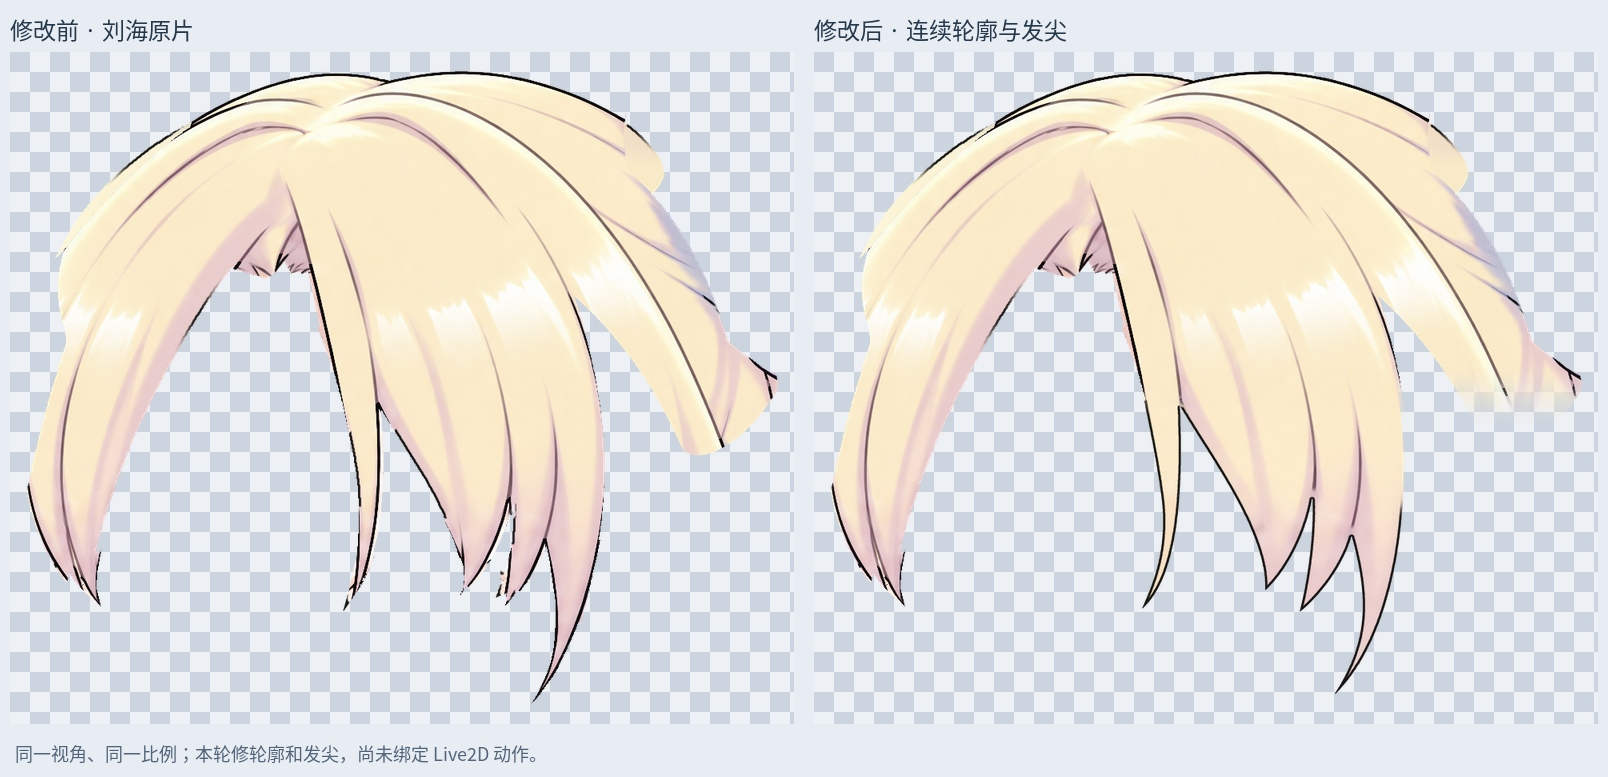
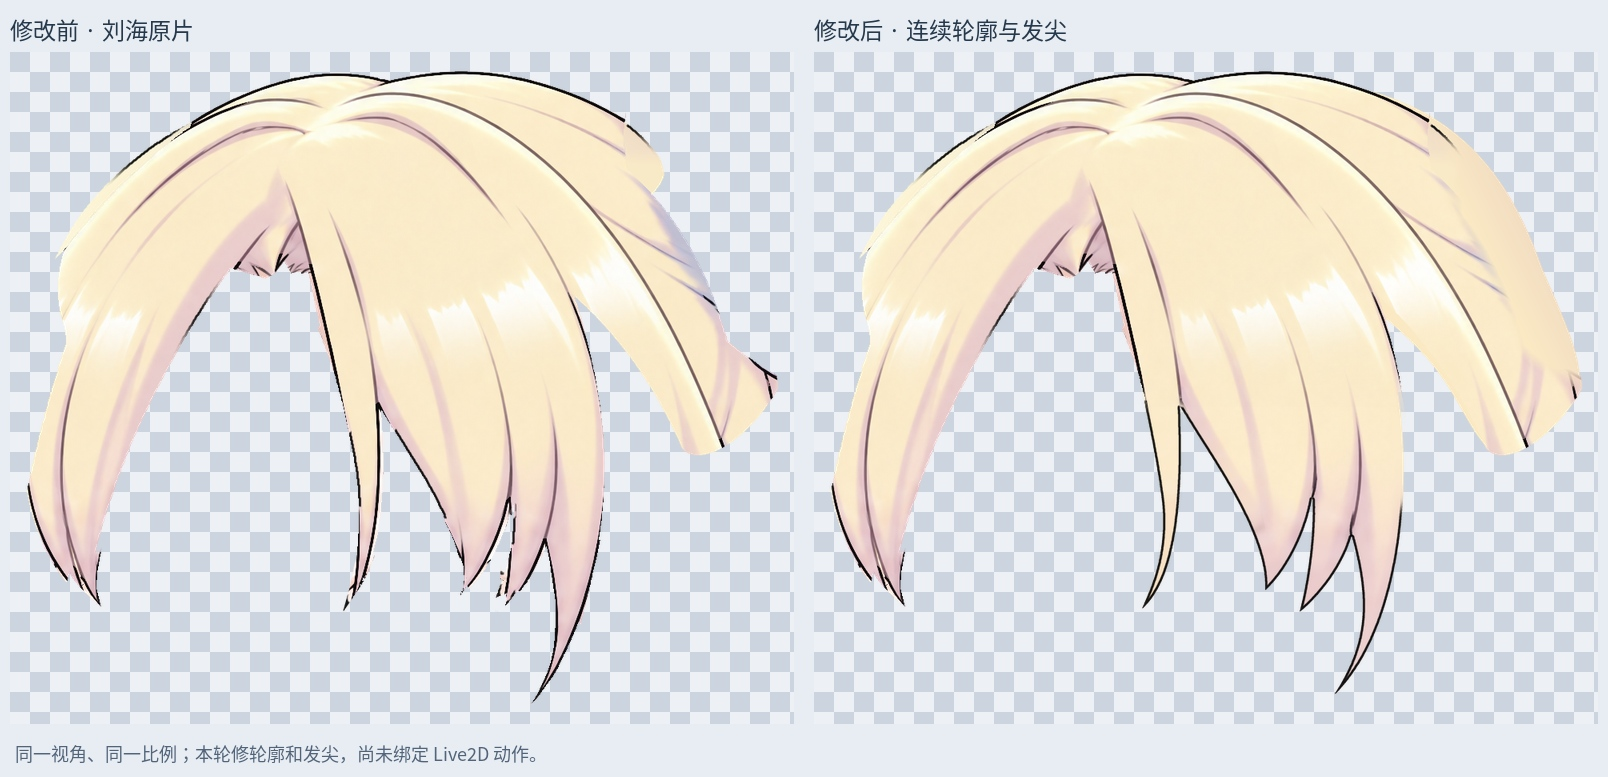
Reconnect fringe flow lines and complete concealed root beneath side locks

Changed region(s): [[0.8706, 0.1236, 0.995, 0.5869], [0.8396, 0.4015, 0.9017, 0.4942]]

diff --git a/live2d/production/repair_bangs_contours_v34.py b/live2d/production/repair_bangs_contours_v34.py
@@ -71,7 +71,7 @@ def prepare():
       'C 1244 422 1227 386 1212 354 L 1180 220 Z')
     shape=curve_mask(tip_path)
     # Blend the contour change into the unedited upper hair over 80px.
-    t=np.clip((y-470)/80,0,1);t=t*t*(3-2*t);t*=x>900
+    t=np.clip((y-470)/80,0,1);t=t*t*(3-2*t);t*=(x>900)&(x<1290)
     alpha=np.rint(orig[:,:,3]*(1-t)+shape*t).astype('uint8')
     # Repair the left hidden root notch, using actual underlying source hair.
     closed=cv2.morphologyEx(orig[:,:,3],cv2.MORPH_CLOSE,cv2.getStructuringElement(cv2.MORPH_ELLIPSE,(37,37)))
@@ -92,11 +92,39 @@ def prepare():
     recoat=np.maximum(np.clip((20-olddepth)/7,0,1),np.clip((16-newdepth)/6,0,1))*t*(alpha>0)
     a[:,:,:3]=np.rint(a[:,:,:3]*(1-recoat[:,:,None])+extended*recoat[:,:,None]).astype('uint8')
     a[:,:,3]=alpha;a[alpha==0]=0
+    # Continue the scalp root underneath the right flower along a curved
+    # silhouette. The old mask followed petal cut-outs and retained petal ink.
+    # This concealed extension is inferred hair paint, not recovered flowers.
+    rootshape=curve_mask('M 1230 130 C 1350 165 1405 250 1440 350 C 1470 420 1495 470 1485 510 C 1460 550 1410 585 1380 581 C 1355 565 1340 520 1310 480 C 1280 440 1250 420 1220 390 L 1220 130 Z')
+    rootweight=np.clip((x-1300)/40,0,1)*np.clip((y-170)/30,0,1)*np.clip((510-y)/35,0,1)
+    u=np.clip((x-(1200+.5*y))/180,0,1)
+    rootcolour=np.array([250,233,195])+u[:,:,None]*np.array([-20,-31,-2])
+    rootpaint=np.clip((24-olddepth)/14,0,1)*rootweight*(a[:,:,3]>0)
+    a[:,:,:3]=np.rint(a[:,:,:3]*(1-rootpaint[:,:,None])+rootcolour*rootpaint[:,:,None]).astype('uint8')
+    # Extra concealed root paint goes BEHIND the side locks, so it cannot
+    # cap their visible flow lines. Preserve the original front alpha here.
+    rootback=np.zeros_like(a);rootback[:,:,:3]=np.rint(rootcolour).astype('uint8');rootback[:,:,3]=rootshape;rootback[rootshape==0]=0
+    rootchanges=int(((rootshape>0)&(a[:,:,3]==0)).sum())
     line=np.array(ink_image(Image.fromarray(a),2.8,'Crown',(DX+BOX[0],BOX[1])))
+    # Reconnect the original mauve flow strokes to the new fork endpoints.
+    # Draw into the colour material; the outer editable black ink stays separate.
+    join=Image.new('RGBA',(SIZE[0]*4,SIZE[1]*4));jd=ImageDraw.Draw(join)
+    for points in [[(1157,606),(1158,618),(1155,628),(1153,636)],[(1205,653),(1203,667),(1199,675),(1202,686)]]:
+        p0,p1,p2,p3=np.array(points,float);prev=None
+        for u in np.linspace(0,1,100):
+            p=(1-u)**3*p0+3*(1-u)**2*u*p1+3*(1-u)*u*u*p2+u**3*p3
+            if prev is not None:
+                opacity=round(235*min(u*5,1));c=np.rint(np.array([111,83,99])*(1-u*.85)).astype(int)
+                jd.line(((prev[0]-BOX[0])*4,(prev[1]-BOX[1])*4,(p[0]-BOX[0])*4,(p[1]-BOX[1])*4),fill=(*c,opacity),width=round((3.6-u*.8)*4))
+            prev=p
+    j=np.array(join.resize(SIZE,Image.Resampling.LANCZOS));j[:,:,3]=np.minimum(j[:,:,3],a[:,:,3])
+    painted=np.array(Image.alpha_composite(Image.fromarray(a),Image.fromarray(j)))
+    a[:,:,:3]=painted[:,:,:3]
     changed={
       'Crown':put_crop(paste_full(old['Crown'].topil().convert('RGBA'),old['Crown'].offset),a),
       'Ink_Crown':put_crop(paste_full(old['Ink_Crown'].topil().convert('RGBA'),old['Ink_Crown'].offset),line),
     }
+    changed['Crown_ConcealedRoot_Underlap_LOCAL']=put_crop(Image.new('RGBA',(W,H)),rootback)
     # The previous face was cut to the old hair silhouette. Supply only the
     # narrow newly exposed skin margin underneath the revised fringe; eyes
     # remain above this patch, and original face/eye layers remain unchanged.
@@ -125,10 +153,10 @@ def prepare():
     for n,m in [('fringe-new-alpha',a[:,:,3]),('tip-contour-edit',np.rint(t*255).astype('uint8'))]:
         Image.fromarray(m).save(OUT/'masks'/(n+'.png'))
     before=Image.alpha_composite(paste_full(old['Crown'].topil().convert('RGBA'),old['Crown'].offset),paste_full(old['Ink_Crown'].topil().convert('RGBA'),old['Ink_Crown'].offset))
-    after=Image.alpha_composite(changed['Crown'],changed['Ink_Crown']);after.save(OUT/'qa/bangs-isolated.png')
+    after=Image.alpha_composite(changed['Crown_ConcealedRoot_Underlap_LOCAL'],Image.alpha_composite(changed['Crown'],changed['Ink_Crown']));after.save(OUT/'qa/bangs-isolated.png')
     panel([('修改前 · 刘海原片',before),('修改后 · 连续轮廓与发尖',after)],OUT/'qa/bangs-contour-comparison.jpg',(DX+530,80,DX+1510,920),.8)
     panel([('修改前 · 断口与碎线',before),('修改后 · 发尖连接',after)],OUT/'qa/bangs-tips-detail.jpg',(DX+920,510,DX+1290,900),1.5)
-    report={'source_sha256':sha(SOURCE),'donor_sha256':sha(DONOR),'tip_alpha_changed_pixels':int(((alpha!=orig[:,:,3])&(t>0)).sum()),'left_notch_recovered_pixels':int(added_notch.sum()),'upper_shared_root_ownership_unchanged':True,'repainted_contour_pixels':int((recoat>0).sum()),'changed_layers':list(changed),'method':'local smooth tip contour reconstruction; original upper-root ownership retained; boundary colour extension inferred from neighbouring hair','not_a_new_angle_or_rig':True}
+    report={'source_sha256':sha(SOURCE),'donor_sha256':sha(DONOR),'tip_alpha_changed_pixels':int(((alpha!=orig[:,:,3])&(t>0)).sum()),'left_notch_recovered_pixels':int(added_notch.sum()),'upper_shared_root_ownership_unchanged':True,'right_root_new_backing_pixels':rootchanges,'root_backing_behind_side_locks':True,'right_root_inferred_under_flower':True,'flow_line_joins_reconnected':2,'repainted_contour_pixels':int((recoat>0).sum()),'changed_layers':list(changed),'method':'smooth tip and hidden root contour reconstruction, two flow-line joins; root layer ownership retained; boundary colour extension inferred from neighbouring hair','not_a_new_angle_or_rig':True}
     (OUT/'edit-record.json').write_text(json.dumps(report,ensure_ascii=False,indent=2)+'\n')
     print(json.dumps(report,ensure_ascii=False,indent=2),flush=True)
 
@@ -141,6 +169,9 @@ def build():
             if item.is_group():
                 g=Group.new(item.name,parent=parent);g.visible=item.visible;g.opacity=item.opacity
                 if item.blend_mode is not None:g.blend_mode=item.blend_mode
+                if item.name=='01e_HeadHair':
+                    n='Crown_ConcealedRoot_Underlap_LOCAL';im=Image.open(files[n]).convert('RGBA');b=im.getbbox()
+                    g.append(PixelLayer.frompil(im.crop(b),psd_file=psd,layer_name=n,top=b[1],left=b[0]))
                 clone(item,g)
                 if item.name=='01d_Face_Ear':
                     n='Fringe_Edge_Skin_Underlap_LOCAL';im=Image.open(files[n]).convert('RGBA');b=im.getbbox()

diff --git a/live2d/BANGS_CONTOUR_REPAIR_V034.md b/live2d/BANGS_CONTOUR_REPAIR_V034.md
@@ -1,31 +1,33 @@
-# 刘海发尖轮廓修正
+# 刘海轮廓与发根修正
 
-上一版仅增加独立黑线，刘海颜色层和透明轮廓保持不变，因此发尖断口、锯齿和旧黑线残片仍然存在。本轮直接修正当前左视图刘海的中间 / 右侧发尖轮廓，并同步替换眼前刘海副本。
+上一版仅增加独立黑线，刘海颜色层和透明轮廓保持不变，因此发尖断口、锯齿和旧黑线残片仍然存在。本轮直接修正当前左视图刘海的中间 / 右侧发尖轮廓，并同步替换眼前刘海副本。随后继续接回两处内部发流线，补齐右花饰下的发根凹口。
 
-主文件：`Rurino_Bangs_Contour_Repaired_v034.psd`，3456 × 2816，54 个像素层。
+主文件：`Rurino_Bangs_Contour_Repaired_v034.psd`，3456 × 2816，55 个像素层。
 
 ## 已修改
 
 - 顺着现有发流重建不等长发尖的曲线，保持中间刘海连续，没有新增矩形切片。
 - 清理旧轮廓附近的黑线残片，局部颜色从相邻头发推断补齐，再生成独立 `Ink_Crown` 线层。
 - 对左上连接处的小缺口补回原画中的头发像素。
+- 接回两处内部阴影线与分叉尖端的连接，避免线条悬空。
+- 右侧发根按弧线补全花饰下的缺口，清除沿花瓣切口遗留的黑线。隐藏区域采用局部金色 / 粉色补画，原有可见发根保留在原图层；新增 `Crown_ConcealedRoot_Underlap_LOCAL` 放在侧发下面，补全区域不会压住侧发的可见线条。
 - 同步更新 `Left_Fringe_EyeOverlap_SOURCE`、`RightFringe_ForegroundTips_SOURCE` 及对应黑线；眼睛上方使用同一轮廓。
 - 新增 `Fringe_Edge_Skin_Underlap_LOCAL` 局部肤色补底。原脸部按旧发边裁切，改发尖后需要窄幅补底；该层在眼睛层下方，不覆盖眼睛，也不重新绘制脸型。
 
-6 个已有像素层修改，新增 1 个局部补底；其余 47 个图层的 RGBA、位置、混合、透明度、可见性与剪贴属性逐项保持一致，包含全部五官与独立眉毛。
+6 个已有像素层修改，新增 2 个局部补底；其余 47 个图层的 RGBA、位置、混合、透明度、可见性与剪贴属性逐项保持一致，包含全部五官与独立眉毛。
 
 ## 检查与边界
 
-- 保存回读的 7 个输出层与 PNG 一致，PSD 默认合成与预览一致。
+- 保存回读的 8 个输出层与 PNG 一致，PSD 默认合成与预览一致。
 - 刘海保持一个主要连通区域，无封闭针孔。
 - 检查睁眼、半闭眼、闭眼三种静态合成；修边没有新增透明露底缝隙。
 - 边缘颜色与肤色补底含局部推断，并非恢复不可见原画。原视频用于造型参考，本轮没有生成新角色图。
-- 本轮完成的是下部刘海发尖与相关遮挡；上部共用发根仍保持原有归属，右侧发根补片的完整形状不宣称已重做。内部阴影线与发尖的衔接可继续精修。
+- 本轮修正下部发尖、两处内部线条连接，以及右花饰下的发根轮廓。共用发根仍保持原图层归属，隐藏补画尚未经过动态露底检查，不能当作全部转头视角已完成。
 - 这是当前左视图的静态 PSD 材料；尚未新增 Cubism 网格、转头、抬低头、身体侧摆或头发物理。运行模型仍为旧稿。
 
[1 lines of base64/hex data omitted]
 
[2 lines of base64/hex data omitted]
 
 ## 使用与重建
 

diff --git a/live2d/CURRENT_WORK.md b/live2d/CURRENT_WORK.md
@@ -4,17 +4,17 @@
 
 ## 当前可用材料
 
-最新是 [刘海发尖轮廓修正](BANGS_CONTOUR_REPAIR_V034.md)：54 层 PSD。直接修正中间 / 右侧刘海的发尖轮廓、断口和旧黑线残片，同步眼前发片与局部肤色补底。6 个已有图层修改、1 个新增、47 个原图层保留。前一版为 [头发独立黑色描边](HAIR_INDEPENDENT_INK_V034.md)，该版只加描边，没有修改刘海颜色与轮廓。
+最新是 [刘海轮廓与发根修正](BANGS_CONTOUR_REPAIR_V034.md)：55 层 PSD。直接修正中间 / 右侧刘海的发尖轮廓、断口和旧黑线残片，同步眼前发片与局部肤色补底。6 个已有图层修改、2 个新增、47 个原图层保留。前一版为 [头发独立黑色描边](HAIR_INDEPENDENT_INK_V034.md)，该版只加描边，没有修改刘海颜色与轮廓。
 
-这次没有完成整个刘海或全头的最终验收：上部共用发根归属未改，右侧发根补片形状、内部阴影线与发尖连接还可继续精修。
+继续修正了两处内部发流线连接，以及右花饰下的发根凹口和残线。共用发根归属不变；隐藏补画仍需要在头部 / 身体动作中检查露底，静态修正不代表动态验收完成。
 
 眉毛独立。原 29 个脸部 / 眼睛 / 身体等相关图层保留，睁眼、半闭眼、闭眼可以切换。头顶与中间刘海仍共用一张连续材料，没有强拆。隐藏面与画布外末端含本地推断补画，不是不可见原画恢复；此前 LibTV 服务阻断，本轮未使用它生成。
 
-权威路径和 SHA256 见 [材料清单](metadata/current-materials-v0.3.4.json)。旧 134 层输入 PSD 放在素材包中供回退，新 PSD 不叠加历史候选。身体仍是原腰部裁切半身，不是完整全身。
+权威路径和 SHA256 见 [材料清单](metadata/current-materials-v0.3.4.json)。各阶段素材包保留对应输入 PSD 供回退，当前包的直接输入为 53 层描边稿，新 PSD 不叠加历史候选。身体仍是原腰部裁切半身，不是完整全身。
 
 ## 接下来的制作顺序
 
-1. 先继续整理上部共用发根与刘海内部线条连接，再在 Cubism 中建立头部、头顶 / 刘海、左右大小马尾、鬓发及长细发的网格与变形器，整理上述共用区的控制关系。
+1. 在 Cubism 中建立头部、头顶 / 刘海、左右大小马尾、鬓发及长细发的网格与变形器，整理上述共用区的控制关系。
 2. 校准已有正面 / 左右 / 抬低头 / 组合视角材料：眼距、远侧眼宽、鼻嘴位置与脸型同步，不能用整脸拉伸或镜像冒充转头。
 3. 制作并检查身体左右侧摆、前后仰及头发跟随；先完成根部遮挡和极限姿态，再调整物理。详见 [身体动作与头发联动](BODY_HAIR_MOTION_PLAN.md)。
 4. 导出新的运行模型，接入 Windows 桌宠；再验收 Ollama 对话、已有音色与嘴型。

diff --git a/README.md b/README.md
@@ -2,7 +2,7 @@
 
 ## 瑠璃乃 Live2D 制作
 
-[当前制作目标与下一步](live2d/CURRENT_WORK.md)：[刘海发尖轮廓修正](live2d/BANGS_CONTOUR_REPAIR_V034.md)，54 层 PSD，实际修正发尖、旧线残片与眼前遮挡，保留独立黑线。尚未绑定新的 Cubism 动作。
+[当前制作目标与下一步](live2d/CURRENT_WORK.md)：[刘海轮廓与发根修正](live2d/BANGS_CONTOUR_REPAIR_V034.md)，55 层 PSD，实际修正发尖、旧线残片与眼前遮挡，保留独立黑线。尚未绑定新的 Cubism 动作。
 
 [人物素材与 Cubism 交接](live2d/README.md) · [桌宠模型接入程序](desktop/README.md)。已提供 [v0.3.3 可运行绑定测试稿](live2d/RIG_DRAFT.md)，支持眨眼、口型与小幅转头；头发边缘和变形仍在精修。
 

diff --git a/live2d/README.md b/live2d/README.md
@@ -1,6 +1,6 @@
 # 瑠璃乃 Live2D 桌宠模型
 
-当前工作稿：[刘海发尖轮廓修正](BANGS_CONTOUR_REPAIR_V034.md)。54 层 PSD，修正下部刘海发尖与遮挡，保留独立黑线、眉毛与三种眼型。以下运行模型仍为旧 v0.3.3。
+当前工作稿：[刘海轮廓与发根修正](BANGS_CONTOUR_REPAIR_V034.md)。55 层 PSD，修正下部刘海发尖与遮挡，保留独立黑线、眉毛与三种眼型。以下运行模型仍为旧 v0.3.3。
 
 已完成真正的 Cubism 绑定初稿，能加载、眨眼、张嘴和小幅转头。头发边缘、闭眼过渡和部分变形仍需精修。
 
